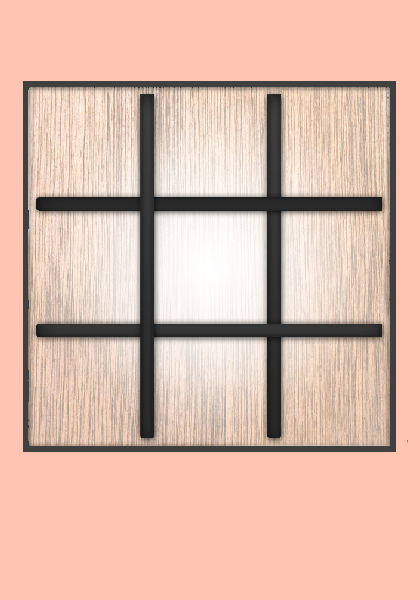
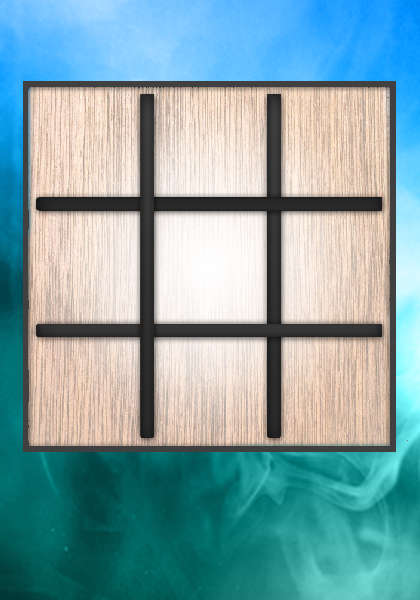
El boton reinicio ya funciona, Cambios en la resolucion de los Os y Xs, cambio a la imagen del tablero, mensaje anti plagio e.e, correccion del README y cambio del title del index.html

diff --git a/src/app.js b/src/app.js
@@ -8,12 +8,33 @@ var HelloWorldLayer = cc.Layer.extend({
     jugadaB:[0,0,0],
     jugadaC:[0,0,0],
     turnos: 0,
+    boton:null,
     fin: false,
     jugar: function (location, event){
         
         var ubicacion = location.getLocation();
         var juego = event.getCurrentTarget();
         var sejugo = false;
+        
+        var cuadro1 = juego.boton.getBoundingBox();
+        if(cc.rectContainsPoint(cuadro1, ubicacion)){
+                    juego.turnos = 0;
+                    juego.jugadaA = [0,0,0];
+                    juego.jugadaB = [0,0,0];
+                    juego.jugadaC = [0,0,0];
+                    juego.fin = false;
+                    
+            for(var i = 0; i < 3; i++){
+                juego.lineaA[i].setVisible(false);
+            }
+            for(var i = 0; i < 3; i++){
+                juego.lineaB[i].setVisible(false);
+            }
+            for(var i = 0; i < 3; i++){
+                juego.lineaC[i].setVisible(false);
+            }
+            // comentario antiPlagio- SI TE HABLO A TI MANSILLA -___-
+        }
         
         if(!juego.fin){
         for(var i = 0; i < 3; i++){
@@ -23,77 +44,83 @@ var HelloWorldLayer = cc.Layer.extend({
                     var sprite = juego.lineaA[i];
                     juego.removeChild(juego.lineaA[i],1);
                     juego.lineaA[i] = new cc.Sprite(res.X_png);
-                    if(i === 0){
+                    juego.jugadaA[i] = 2;
+                }else{
+                    var sprite = juego.lineaA[i];
+                    juego.removeChild(juego.lineaA[i],1);
+                    juego.lineaA[i] = new cc.Sprite(res.O_png);
+                    juego.jugadaA[i] = 1;
+                }
+                 if(i === 0){
                         juego.lineaA[i].setPosition(355, 480);
                     }else if (i === 1){
                         juego.lineaA[i].setPosition(480, 480);
                     }else{
                         juego.lineaA[i].setPosition(610, 480);
                     }
-                    juego.jugadaA[i] = 2;
-                    juego.lineaA[i].setScale(0.15, 0.15);
-                    juego.lineaA[i].setVisible(false);
-                    juego.addChild(juego.lineaA[i],1);
-                }else{
-                    juego.jugadaA[i] = 1;
-                }
+                juego.addChild(juego.lineaA[i],1);
                 juego.lineaA[i].setVisible(true);
                 juego.turnos++;
                 sejugo = true;
+                 // comentario antiPlagio- SI TE HABLO A TI MANSILLA -___-
              }
         }   
         
         for(var i = 0; i < 3; i++){
            var cuadro = juego.lineaB[i].getBoundingBox();
-            if(cc.rectContainsPoint(cuadro, ubicacion)&& juego.jugadaB[i]===0){
-                  if(juego.turnos%2===1){
+                         if(cc.rectContainsPoint(cuadro, ubicacion) && juego.jugadaB[i]===0){
+                 if(juego.turnos%2===1){
                     var sprite = juego.lineaB[i];
                     juego.removeChild(juego.lineaB[i],1);
                     juego.lineaB[i] = new cc.Sprite(res.X_png);
-                    if(i === 0){
+                    juego.jugadaB[i] = 2;
+                }else{
+                    var sprite = juego.lineaB[i];
+                    juego.removeChild(juego.lineaB[i],1);
+                    juego.lineaB[i] = new cc.Sprite(res.O_png);
+                    juego.jugadaB[i] = 1;
+                }
+                 if(i === 0){
                         juego.lineaB[i].setPosition(355, 350);
                     }else if (i === 1){
                         juego.lineaB[i].setPosition(480, 350);
                     }else{
                         juego.lineaB[i].setPosition(610, 350);
                     }
-                    juego.jugadaB[i] = 2;
-                    juego.lineaB[i].setScale(0.15, 0.15);
-                    juego.lineaB[i].setVisible(false);
-                    juego.addChild(juego.lineaB[i],1);
-                }else{
-                    juego.jugadaB[i] = 1;
-                }
+                juego.addChild(juego.lineaB[i],1);
                 juego.lineaB[i].setVisible(true);
                 juego.turnos++;
                 sejugo = true;
+                // comentario antiPlagio- SI TE HABLO A TI MANSILLA -___-
             }
         }
         
         for(var i = 0; i < 3; i++){
            var cuadro = juego.lineaC[i].getBoundingBox();
-            if(cc.rectContainsPoint(cuadro, ubicacion)&& juego.jugadaC[i]===0){
-                if(juego.turnos%2===1){
+             if(cc.rectContainsPoint(cuadro, ubicacion) && juego.jugadaC[i]===0){
+                 if(juego.turnos%2===1){
                     var sprite = juego.lineaC[i];
                     juego.removeChild(juego.lineaC[i],1);
                     juego.lineaC[i] = new cc.Sprite(res.X_png);
-                    if(i === 0){
+                    juego.jugadaC[i] = 2;
+                }else{
+                    var sprite = juego.lineaC[i];
+                    juego.removeChild(juego.lineaC[i],1);
+                    juego.lineaC[i] = new cc.Sprite(res.O_png);
+                    juego.jugadaC[i] = 1;
+                }
+                 if(i === 0){
                         juego.lineaC[i].setPosition(355, 230);
                     }else if (i === 1){
                         juego.lineaC[i].setPosition(480, 230);
                     }else{
                         juego.lineaC[i].setPosition(610, 230);
                     }
-                    juego.jugadaC[i] = 2;
-                    juego.lineaC[i].setScale(0.15, 0.15);
-                    juego.lineaC[i].setVisible(false);
-                    juego.addChild(juego.lineaC[i],1);
-                }else{
-                    juego.jugadaC[i] = 1;
-                }
+                juego.addChild(juego.lineaC[i],1);
                 juego.lineaC[i].setVisible(true);
                 juego.turnos++;
                 sejugo = true;
+                // comentario antiPlagio- SI TE HABLO A TI MANSILLA -___-
             }
         }
         console.log("Turno No.: "+juego.turnos);  
@@ -174,69 +201,7 @@ var HelloWorldLayer = cc.Layer.extend({
             }
 
         }
-        /*
-        var cuadro = this.boton.getBoundingBox();
-        if(cc.rectContainsPoint(cuadro, ubicacion)){
-            juego.turnos = 0;
-            juego.jugadaA = [0,0,0];
-            juego.jugadaB = [0,0,0];
-            juego.jugadaC = [0,0,0];
-            
-        juego.lineaA[0] = new cc.Sprite(res.O_png);
-        juego.lineaA[0].setPosition(355,480);
-        juego.lineaA[0].setScale(0.15, 0.15);
-        juego.addChild(this.lineaA[0], 1);
-        juego.lineaA[0].setVisible(false);
         
-        juego.lineaA[1] = new cc.Sprite(res.O_png);
-       juego.lineaA[1].setPosition(480, 480);
-       juego.lineaA[1].setScale(0.15, 0.15);
-		 juego.addChild(this.lineaA[1], 1);
-        juego.lineaA[1].setVisible(false);
-        
-         juego.lineaA[2] = new cc.Sprite(res.O_png);
-         juego.lineaA[2].setPosition(610, 480);
-         juego.lineaA[2].setScale(0.15, 0.15);
-		 juego.addChild(this.lineaA[2], 1);
-         juego.lineaA[2].setVisible(false);
-        //------------------------------------------------------------------------
-         juego.lineaB[0] = new cc.Sprite(res.O_png);
-         juego.lineaB[0].setPosition(355,350);
-         juego.lineaB[0].setScale(0.15, 0.15);
-		 juego.addChild(this.lineaB[0], 1);
-         juego.lineaB[0].setVisible(false);
-        
-         juego.lineaB[1] = new cc.Sprite(res.O_png);
-        juego.lineaB[1].setPosition(480, 350);
-         juego.lineaB[1].setScale(0.15, 0.15);
-		 juego.addChild(this.lineaB[1], 1);
-        juego.lineaB[1].setVisible(false);
-        
-        juego.lineaB[2] = new cc.Sprite(res.O_png);
-         juego.lineaB[2].setPosition(610, 350);
-        juego.lineaB[2].setScale(0.15, 0.15);
-		 juego.addChild(this.lineaB[2], 1);
-        juego.lineaB[2].setVisible(false);
-        //------------------------------------------------------------------------
-        juego.lineaC[0] = new cc.Sprite(res.O_png);
-         juego.lineaC[0].setPosition(355,230);
-         juego.lineaC[0].setScale(0.15, 0.15);
-		 juego.addChild(this.lineaC[0], 1);
-         juego.lineaC[0].setVisible(false);
-        
-         juego.lineaC[1] = new cc.Sprite(res.O_png);
-         juego.lineaC[1].setPosition(480, 230);
-         juego.lineaC[1].setScale(0.15, 0.15);
-		 juego.addChild(this.lineaC[1], 1);
-        juego.lineaC[1].setVisible(false);
-        
-        juego.lineaC[2] = new cc.Sprite(res.O_png);
-        juego.lineaC[2].setPosition(610, 230);
-        juego.lineaC[2].setScale(0.15, 0.15);
-        juego.addChild(this.lineaC[2], 1);
-        juego.lineaC[2].setVisible(false);
-        }
-        */
         return true;
     },
     ctor:function () {
@@ -267,61 +232,52 @@ var HelloWorldLayer = cc.Layer.extend({
         //======================================================================
         this.lineaA[0] = new cc.Sprite(res.O_png);
         this.lineaA[0].setPosition(355,480);
-        this.lineaA[0].setScale(0.15, 0.15);
 		this.addChild(this.lineaA[0], 1);
         this.lineaA[0].setVisible(false);
         
         this.lineaA[1] = new cc.Sprite(res.O_png);
         this.lineaA[1].setPosition(480, 480);
-        this.lineaA[1].setScale(0.15, 0.15);
 		this.addChild(this.lineaA[1], 1);
         this.lineaA[1].setVisible(false);
         
         this.lineaA[2] = new cc.Sprite(res.O_png);
         this.lineaA[2].setPosition(610, 480);
-        this.lineaA[2].setScale(0.15, 0.15);
 		this.addChild(this.lineaA[2], 1);
         this.lineaA[2].setVisible(false);
         //------------------------------------------------------------------------
         this.lineaB[0] = new cc.Sprite(res.O_png);
         this.lineaB[0].setPosition(355,350);
-        this.lineaB[0].setScale(0.15, 0.15);
 		this.addChild(this.lineaB[0], 1);
         this.lineaB[0].setVisible(false);
         
         this.lineaB[1] = new cc.Sprite(res.O_png);
         this.lineaB[1].setPosition(480, 350);
-        this.lineaB[1].setScale(0.15, 0.15);
 		this.addChild(this.lineaB[1], 1);
         this.lineaB[1].setVisible(false);
         
         this.lineaB[2] = new cc.Sprite(res.O_png);
         this.lineaB[2].setPosition(610, 350);
-        this.lineaB[2].setScale(0.15, 0.15);
 		this.addChild(this.lineaB[2], 1);
         this.lineaB[2].setVisible(false);
         //------------------------------------------------------------------------
         this.lineaC[0] = new cc.Sprite(res.O_png);
         this.lineaC[0].setPosition(355,230);
-        this.lineaC[0].setScale(0.15, 0.15);
 		this.addChild(this.lineaC[0], 1);
         this.lineaC[0].setVisible(false);
         
         this.lineaC[1] = new cc.Sprite(res.O_png);
         this.lineaC[1].setPosition(480, 230);
-        this.lineaC[1].setScale(0.15, 0.15);
 		this.addChild(this.lineaC[1], 1);
         this.lineaC[1].setVisible(false);
         
         this.lineaC[2] = new cc.Sprite(res.O_png);
         this.lineaC[2].setPosition(610, 230);
-        this.lineaC[2].setScale(0.15, 0.15);
 		this.addChild(this.lineaC[2], 1);
         this.lineaC[2].setVisible(false);
         
-        var boton = new cc.Sprite(res.boton_png);
-        boton.setPosition(480, 80);
-        this.addChild(boton, 3);
+        this.boton = new cc.Sprite(res.boton_png);
+        this.boton.setPosition(480, 80);
+        this.addChild(this.boton, 3);
         //========================================================================
         
         // Touch Event

diff --git a/index.html b/index.html
@@ -2,7 +2,7 @@
 <html>
 <head>
     <meta charset="utf-8">
-    <title>Cocos2d-html5 Hello World test</title>
+    <title>TicTacToe by CValerio16 en Cocos2dx-JS </title>
     <link rel="icon" type="image/GIF" href="res/favicon.ico"/>
     <meta name="viewport" content="initial-scale=1">
     <meta name="apple-mobile-web-app-capable" content="yes"/>

diff --git a/README.md b/README.md
@@ -1,5 +1,5 @@
 #TicTacToe (Realizado en Cocos2d-x con Javascript)
 
-Este juego de TicTacToe con cocos2d-x fue realizado para fines de práctica del ccurso de Diseño y programación de videojuegos en INTEC.
+Este juego de TicTacToe con cocos2d-x fue realizado para fines de práctica del curso de Diseño y programación de videojuegos en INTEC.
 
 Para empezar a modificar el código edite el archivo src/app.js .
